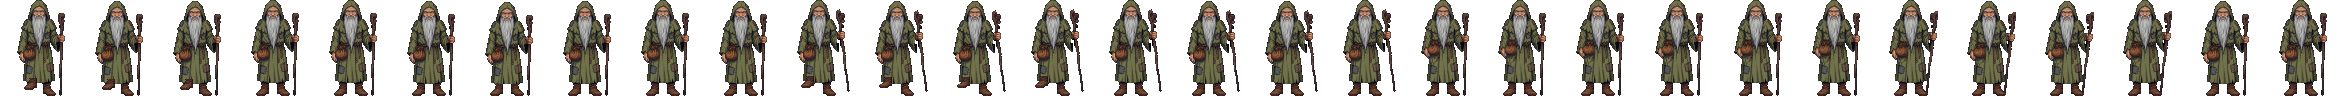
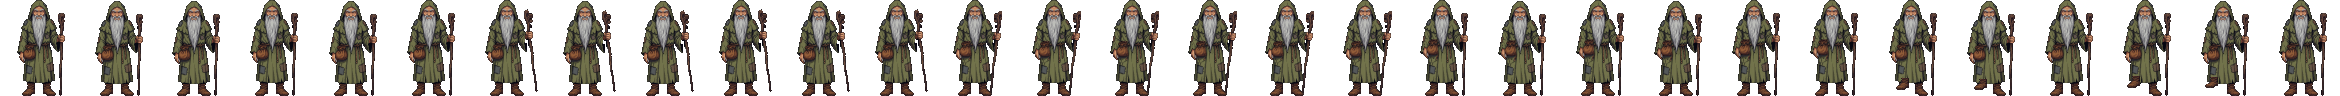
Each dancer does their own clip's dance: Mara the witch's hand-up cross-step, Orrin the chin-and-hip sway and clasp-bow, Bram the bounce, staff point and jig

Changed region(s): [[0.0, 0.0312, 0.9671, 1.0], [0.2184, 0.7188, 0.2808, 0.7812], [0.1872, 0.0, 0.2184, 0.0312]]

diff --git a/assets/npcs/faces/anim.py b/assets/npcs/faces/anim.py
@@ -59,9 +59,14 @@ CHARS = {
             'hips': dict(Lua=-42, Lfa=60, Rua=42, Rfa=-60),
             'up': dict(Lua=-42, Lfa=60, Rua=160, Rfa=176),               # wrench up, other hand on the hip
             'wide': dict(Lua=-95, Lfa=-95, Rua=95, Rfa=95),
+            'think': dict(Lua=-10, Lfa=150, Rua=42, Rfa=-60),
         },
         leg=(468, 892, 612, 1182),
         script=['chest', 'cheek', 'hips', 'up'],
+        # clip 3: hand to the chin with the other hand on the hip and a sway, hands clasped at the chest swaying side to side, a little bow
+        frames=[('think', 0, s, 'stand') for s in (0, 0, -1, -1, 0, 0)] + [('think', b, 0, 'stand') for b in (0, 1, 1, 0, 1, 0)] +
+               [('chest', 0, s, 'stand') for s in (0, -1, -1, 0, 1, 1, 0, 0)] + [('chest', b, 0, 'stand') for b in (1, 2, 2, 1, 0)] +
+               [('think', 0, s, 'stand') for s in (0, 1, 1, 0, 0)],
     ),
     'mara': dict(
         cut=['larm', 'lbraid', 'rbraid'],
@@ -80,6 +85,11 @@ CHARS = {
         },
         leg=(484, 900, 548, 1180),
         script=['chest', 'cheek', 'hips', 'up'],
+        # clip 2: hand up by the hat with a bounce, a cross-step sway with knees in, the arm out, the same to the other side
+        frames=[('up', b, 0, 'stand') for b in (0, 1, 1)] + [('up', 0, -1, 'knee'), ('up', 1, -1, 'knee')] +
+               [('hips', b, 0, 'stand') for b in (0, 1, 2, 1, 0)] + [('cheek', 0, s, 'stand') for s in (0, 1, 1, 1, 0)] +
+               [('up', 0, s, 'stand') for s in (0, 1, 1, 0, 0)] + [('cheek', 0, 1, 'knee'), ('cheek', 1, 1, 'knee'), ('cheek', 1, 0, 'stand'), ('chest', 0, 0, 'stand'), ('chest', 1, 0, 'stand')] +
+               [('chest', b, 0, 'stand') for b in (0, 1, 2, 1, 0)],
     ),
     'bram': dict(
         cut=['staff', 'purse'],
@@ -98,6 +108,11 @@ CHARS = {
         },
         leg=(250, 1040, 406, 1178),
         script=['chest', 'cheek', 'hips', 'up'],
+        # clip 4: bounce and sway on the spot, the staff raised high like a pointed finger, a lean with the purse jingling, a jig to finish
+        frames=[('chest', b, s, 'stand') for b, s in ((0, 0), (1, 0), (1, -1), (0, -1), (1, 0), (0, 0))] +
+               [('cheek', b, 0, 'stand') for b in (0, 1, 1, 0, 1, 0)] + [('up', 0, s, 'stand') for s in (0, 1, 1, 1, 0, 0)] +
+               [('hips', b, -1, 'stand') for b in (0, 1, 0, 1, 0, 0)] + [('chest', 0, 0, 'kick'), ('chest', 1, 0, 'kick'), ('chest', 0, 0, 'stand'),
+                                                                        ('chest', 0, 0, 'knee'), ('chest', 1, 0, 'knee'), ('chest', 0, 0, 'stand')],
     ),
 }
 
@@ -215,7 +230,9 @@ def build(id_):
     lx0, ly0, lx1, ly1 = cfg['leg']
     leg_box = (int(lx0 * k), int((ly0 - top) * k), int(math.ceil(lx1 * k)) + 1, H)
     legs_top = leg_box[1]
-    frames = [frame(posed[f[0]], f, leg_box, legs_top) for f in frames_for(cfg['script'])]
+    script = cfg.get('frames') or frames_for(cfg['script'])
+    assert len(script) == 30, f'{id_}: {len(script)} frames, the game plays 30'
+    frames = [frame(posed[f[0]], f, leg_box, legs_top) for f in script]
     Image.fromarray(np.concatenate(frames, axis=1), 'RGBA').save(os.path.join(HERE, '..', f'{id_}_anim.png'), optimize=True)
     return frames
 

diff --git a/assets/npcs/faces/poses.py b/assets/npcs/faces/poses.py
@@ -218,6 +218,12 @@ def cut_away(id_, face, names):
         for y, x in zip(*np.where(m)):
             src = None
             toward = 1 if x < mid else -1
+            if mode == 'down':
+                yy = y + 1
+                while yy < H and allm[yy, x]:
+                    yy += 1
+                if yy < H:
+                    src = a[yy, x]
             if mode == 'mirror' and abs(x - mid) < half:
                 mx = int(2 * mid - x)
                 if 0 <= mx < W and not allm[y, mx]:
